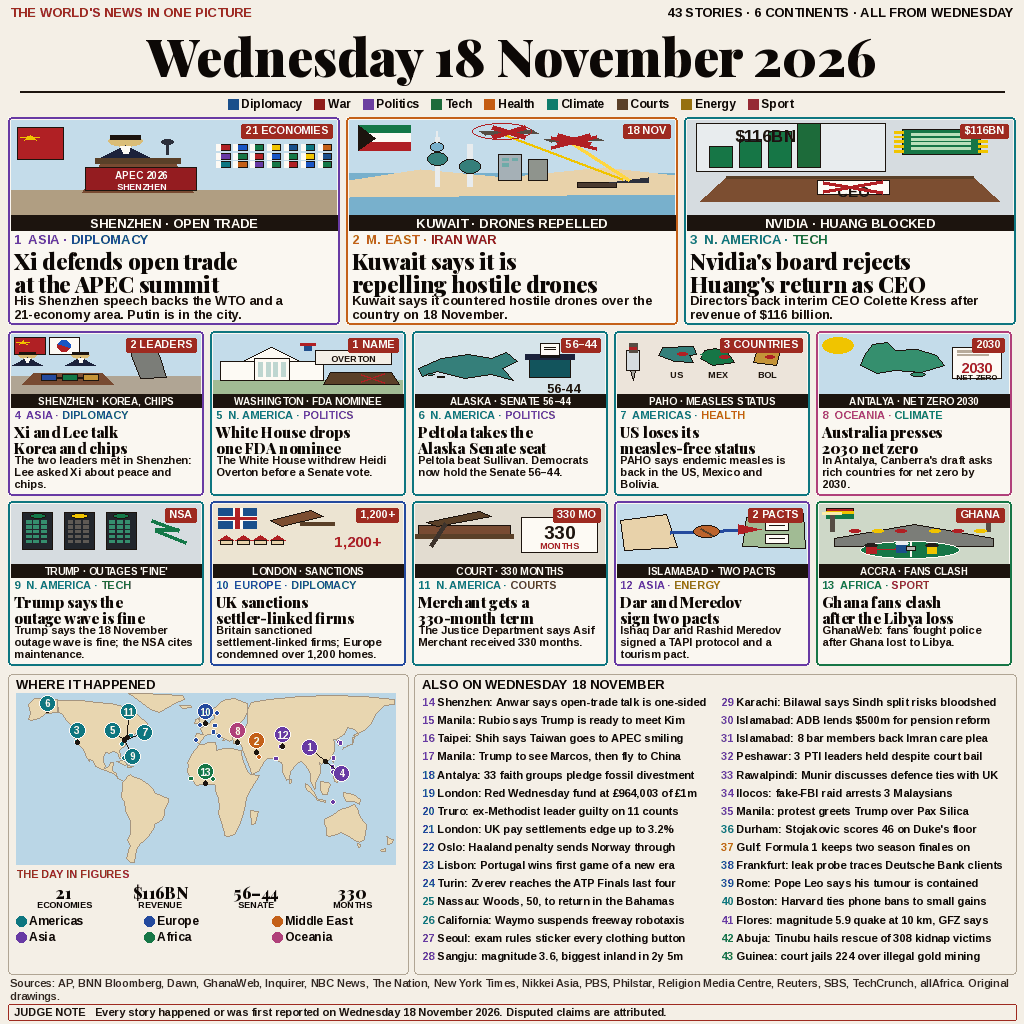
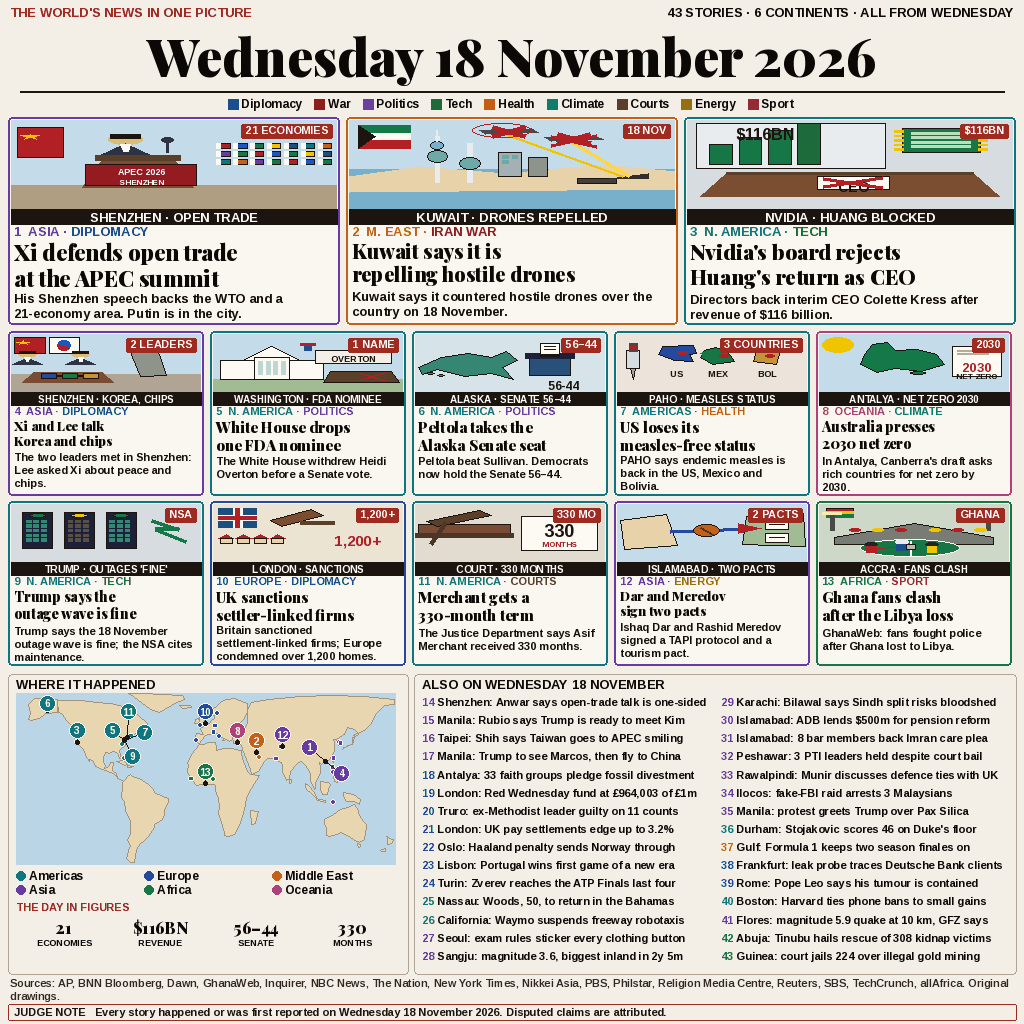
Fix headline, dek and figure overlaps on the 18 November page.

diff --git a/build/page.py b/build/page.py
@@ -169,6 +169,26 @@ def chip(d, right, top, label, font):
     d.text((x + 4, top + 4), label, font=font, fill=WHITE)
 
 
+def line_step(size):
+    """Line height is at least 1.15 times the font size."""
+    return max(1, math.ceil(size * 1.15))
+
+
+def place_lines(d, x, y, lines, fnt):
+    """Tops are a full line-step apart, and each line's ink clears the one above by 2px."""
+    step = line_step(fnt.size)
+    ys = []
+    for i, line in enumerate(lines):
+        cursor = y if not ys else ys[-1] + step
+        if ys:
+            prev_bottom = d.textbbox((x, ys[-1]), lines[i - 1], font=fnt)[3]
+            ink_off = d.textbbox((0, 0), line, font=fnt)[1]
+            cursor = max(cursor, prev_bottom + 2 - ink_off)
+        ys.append(cursor)
+    last = d.textbbox((x, ys[-1]), lines[-1], font=fnt)[3] if lines else y
+    return ys, last
+
+
 def tag(d, x, y, story, path, max_w, start):
     region = {"NORTH AMERICA": "N. AMERICA", "MIDDLE EAST": "M. EAST"}.get(story["region"], story["region"])
     label = f"{story['num']}  {region} · {story['field']}"
@@ -190,7 +210,8 @@ def card(base, _d, box, story, fonts, lead):
     col = rcol(story["region"])
     d.rounded_rectangle((0, 0, w - 1, h - 1), radius=4, fill=CREAM, outline=col, width=2)
     cap, chip_l, hl, dek = CARD[story["n"]]
-    text_h = 98 if lead else 92
+    # Room for a 1.15em headline, a 3px gap, and the dek, inside the card.
+    text_h = 104 if lead else 94
     art_h = max(44, h - text_h)
     art = (3, 3, w - 6, art_h)
     # Scene stops above the caption strip so picture text cannot be clipped by it.
@@ -199,18 +220,38 @@ def card(base, _d, box, story, fonts, lead):
     cfont = fit(fonts["sansb"], cap, art[2], 13 if lead else 10, 8, d)
     caption(d, art, cap, cfont)
     chip(d, w - 3, 3, chip_l, fonts["chip"])
-    ty = 5 + art_h
+    ty = 3 + art_h
     tf = tag(d, 6, ty, story, fonts["sansb"], w - 14, 13 if lead else 11)
-    top = ty + tf.size + 1
-    hf = fit(fonts["serif"], hl, w - 14, 22 if lead else 15, 11, d, 900)
-    for i, line in enumerate(hl.split("\n")[:2]):
-        d.text((6, top + i * (hf.size + 1)), line, font=hf, fill=HEAD)
-    dy = top + 2 * (hf.size + 1) + 1
+    top = ty + tf.size
+    max_w = w - 14
+    hlines = hl.split("\n")[:2]
     df = fonts["dek"] if lead else fonts["dek_s"]
-    for i, line in enumerate(wrap(d, dek, df, w - 14)[:3]):
-        if dy + i * (df.size + 1) + df.size > h - 3:
+    full = wrap(d, dek, df, max_w) or [dek]
+    start = 22 if lead else 15
+    # Keep every dek line. Shrink the headline by 1px, then 2px, before trimming the dek.
+    picked = None
+    for limit in (len(full), min(len(full), 2)):
+        for shrink in (0, 1, 2):
+            hf = fit(fonts["serif"], "\n".join(hlines), max_w, start - shrink, 11, d, 900)
+            hys, hbot = place_lines(d, 6, top, hlines, hf)
+            dlines = full[:limit]
+            dys, dbot = place_lines(d, 6, hbot + 3, dlines, df)
+            if dbot <= h - 4:
+                picked = (hf, hys, dys, dlines)
+                break
+        if picked:
             break
-        d.text((6, dy + i * (df.size + 1)), line, font=df, fill=(22, 14, 10))
+    if picked is None:
+        hf = fit(fonts["serif"], "\n".join(hlines), max_w, max(11, start - 2), 11, d, 900)
+        hys, hbot = place_lines(d, 6, top, hlines, hf)
+        dlines = full[:2]
+        dys, _dbot = place_lines(d, 6, hbot + 3, dlines, df)
+        picked = (hf, hys, dys, dlines)
+    hf, hys, dys, dlines = picked
+    for yy, line in zip(hys, hlines):
+        d.text((6, yy), line, font=hf, fill=HEAD)
+    for yy, line in zip(dys, dlines):
+        d.text((6, yy), line, font=df, fill=(22, 14, 10))
     base.paste(layer, (x, y))
 
 
@@ -310,25 +351,45 @@ def render():
     paint_land(im, map_box)
     pins(d, (map_box[0], map_box[1]), map_box[2], map_box[3], illustrated, also,
          font(sans, 10, 700))
-    fy = map_box[1] + map_h + 3
-    d.text((16, fy), "THE DAY IN FIGURES", font=font(sans, 11, 700), fill=RUST)
-    figures = [("21", "ECONOMIES"), ("$116BN", "REVENUE"), ("56–44", "SENATE"), ("330", "MONTHS")]
-    nf = font(serif, 16, 900)
-    cf = font(sans, 9, 700)
-    slot = (map_right - 24) / 4
-    for i, (num, cap) in enumerate(figures):
-        cx = 16 + i * slot + slot / 2
-        tw = d.textlength(num, font=nf)
-        d.text((cx - tw / 2, fy + 13), num, font=nf, fill=HEAD)
-        tw = d.textlength(cap, font=cf)
-        d.text((cx - tw / 2, fy + 31), cap, font=cf, fill=HEAD)
-    lf = font(sans, 12, 700)
-    leg_y = fy + 46
+    # Legend sits directly under the map. Figures sit under the legend, inside the box.
+    box_bottom = bottom_y + bottom_h - 6
+    leg_top = map_box[1] + map_h + 4
+    lf_size, title_size, num_size, cap_size = 12, 11, 16, 9
+    while True:
+        lstep = line_step(lf_size)
+        title_y = leg_top + 2 * lstep + 4
+        num_y = title_y + line_step(title_size) + 2
+        cap_y = num_y + line_step(num_size) + 2
+        end = cap_y + line_step(cap_size)
+        if end <= box_bottom or num_size <= 13:
+            break
+        num_size -= 1
+    lf = font(sans, lf_size, 700)
+    tf = font(sans, title_size, 700)
+    nf = font(serif, num_size, 900)
+    cf = font(sans, cap_size, 700)
     for i, (name, col) in enumerate(REG.items()):
         lx = 16 + (i % 3) * 128
-        ly = leg_y + (i // 3) * 16
-        d.ellipse((lx, ly + 2, lx + 10, ly + 12), fill=col)
+        ly = leg_top + (i // 3) * lstep
+        d.ellipse((lx, ly + 2, lx + 9, ly + 11), fill=col)
         d.text((lx + 13, ly), name, font=lf, fill=HEAD)
+    d.text((16, title_y), "THE DAY IN FIGURES", font=tf, fill=RUST)
+    figures = [("21", "ECONOMIES"), ("$116BN", "REVENUE"), ("56–44", "SENATE"), ("330", "MONTHS")]
+    title_bot = d.textbbox((16, title_y), "THE DAY IN FIGURES", font=tf)[3]
+    num_off = min(d.textbbox((0, 0), num, font=nf)[1] for num, _cap in figures)
+    num_y = max(num_y, title_bot + 3 - num_off)
+    slot = (map_right - 24) / 4
+    for i, (num, _cap) in enumerate(figures):
+        cx = 16 + i * slot + slot / 2
+        tw = d.textlength(num, font=nf)
+        d.text((cx - tw / 2, num_y), num, font=nf, fill=HEAD)
+    num_bot = max(d.textbbox((0, num_y), num, font=nf)[3] for num, _cap in figures)
+    cap_off = d.textbbox((0, 0), "ECONOMIES", font=cf)[1]
+    cap_y = max(cap_y, num_bot + 3 - cap_off)
+    for i, (_num, cap) in enumerate(figures):
+        cx = 16 + i * slot + slot / 2
+        tw = d.textlength(cap, font=cf)
+        d.text((cx - tw / 2, cap_y), cap, font=cf, fill=HEAD)
     ax = 414
     d.rounded_rectangle((ax, bottom_y, 1016, bottom_y + bottom_h), radius=4, outline=(176, 164, 146), width=1)
     d.text((ax + 8, bottom_y + 3), "ALSO ON WEDNESDAY 18 NOVEMBER", font=hfont, fill=HEAD)

diff --git a/NOTES.md b/NOTES.md
@@ -136,3 +136,15 @@ Facts, story set, and the newspaper grid are unchanged. Type and pictures are he
 `entry.png` is 1024×1024 palette, 86,832 bytes. Checked at full size and at 300px: date, lead headlines, also-list, and the four figures read; banner text is clear of the caption bars. `MAKEFUN_OUTPUT_DIR=out node main.ts` matches `entry.png`.
 
 Next: change the picture only if a grade names a specific miss.
+
+## Session 8 — overlap fix
+
+Headline and dek spacing only, plus the map legend and the figures row. Story text is unchanged.
+
+- Card type uses a line height of at least 1.15 times the font size. The dek starts 3px under the last headline line's ink. A headline drops 1px, then 2px, before a dek is cut to two lines. The measured cards keep the full dek. The tightest small cards (Korea, sanctions, TAPI) end 4px or more above the border, with 5px or more between the headline and the dek.
+- Lead pictures are 98px tall (were 110) and small pictures 71px (were 73) so that line height fits inside the card. Headlines stay 22px on the leads. A few small headlines are 13–14px.
+- Under the map, the continent legend is first and "THE DAY IN FIGURES" is under it. Both sit inside the box and do not cover the land or each other.
+
+Checked at 1024 and on crops of the small cards: the named collisions (Korea, Alaska, Merchant, TAPI, lead deks, figures versus legend) are separated. `entry.png` is 1024×1024 palette, 88,781 bytes. `MAKEFUN_OUTPUT_DIR=out node main.ts` matches it.
+
+Next: change the picture only if a grade names a specific miss.
